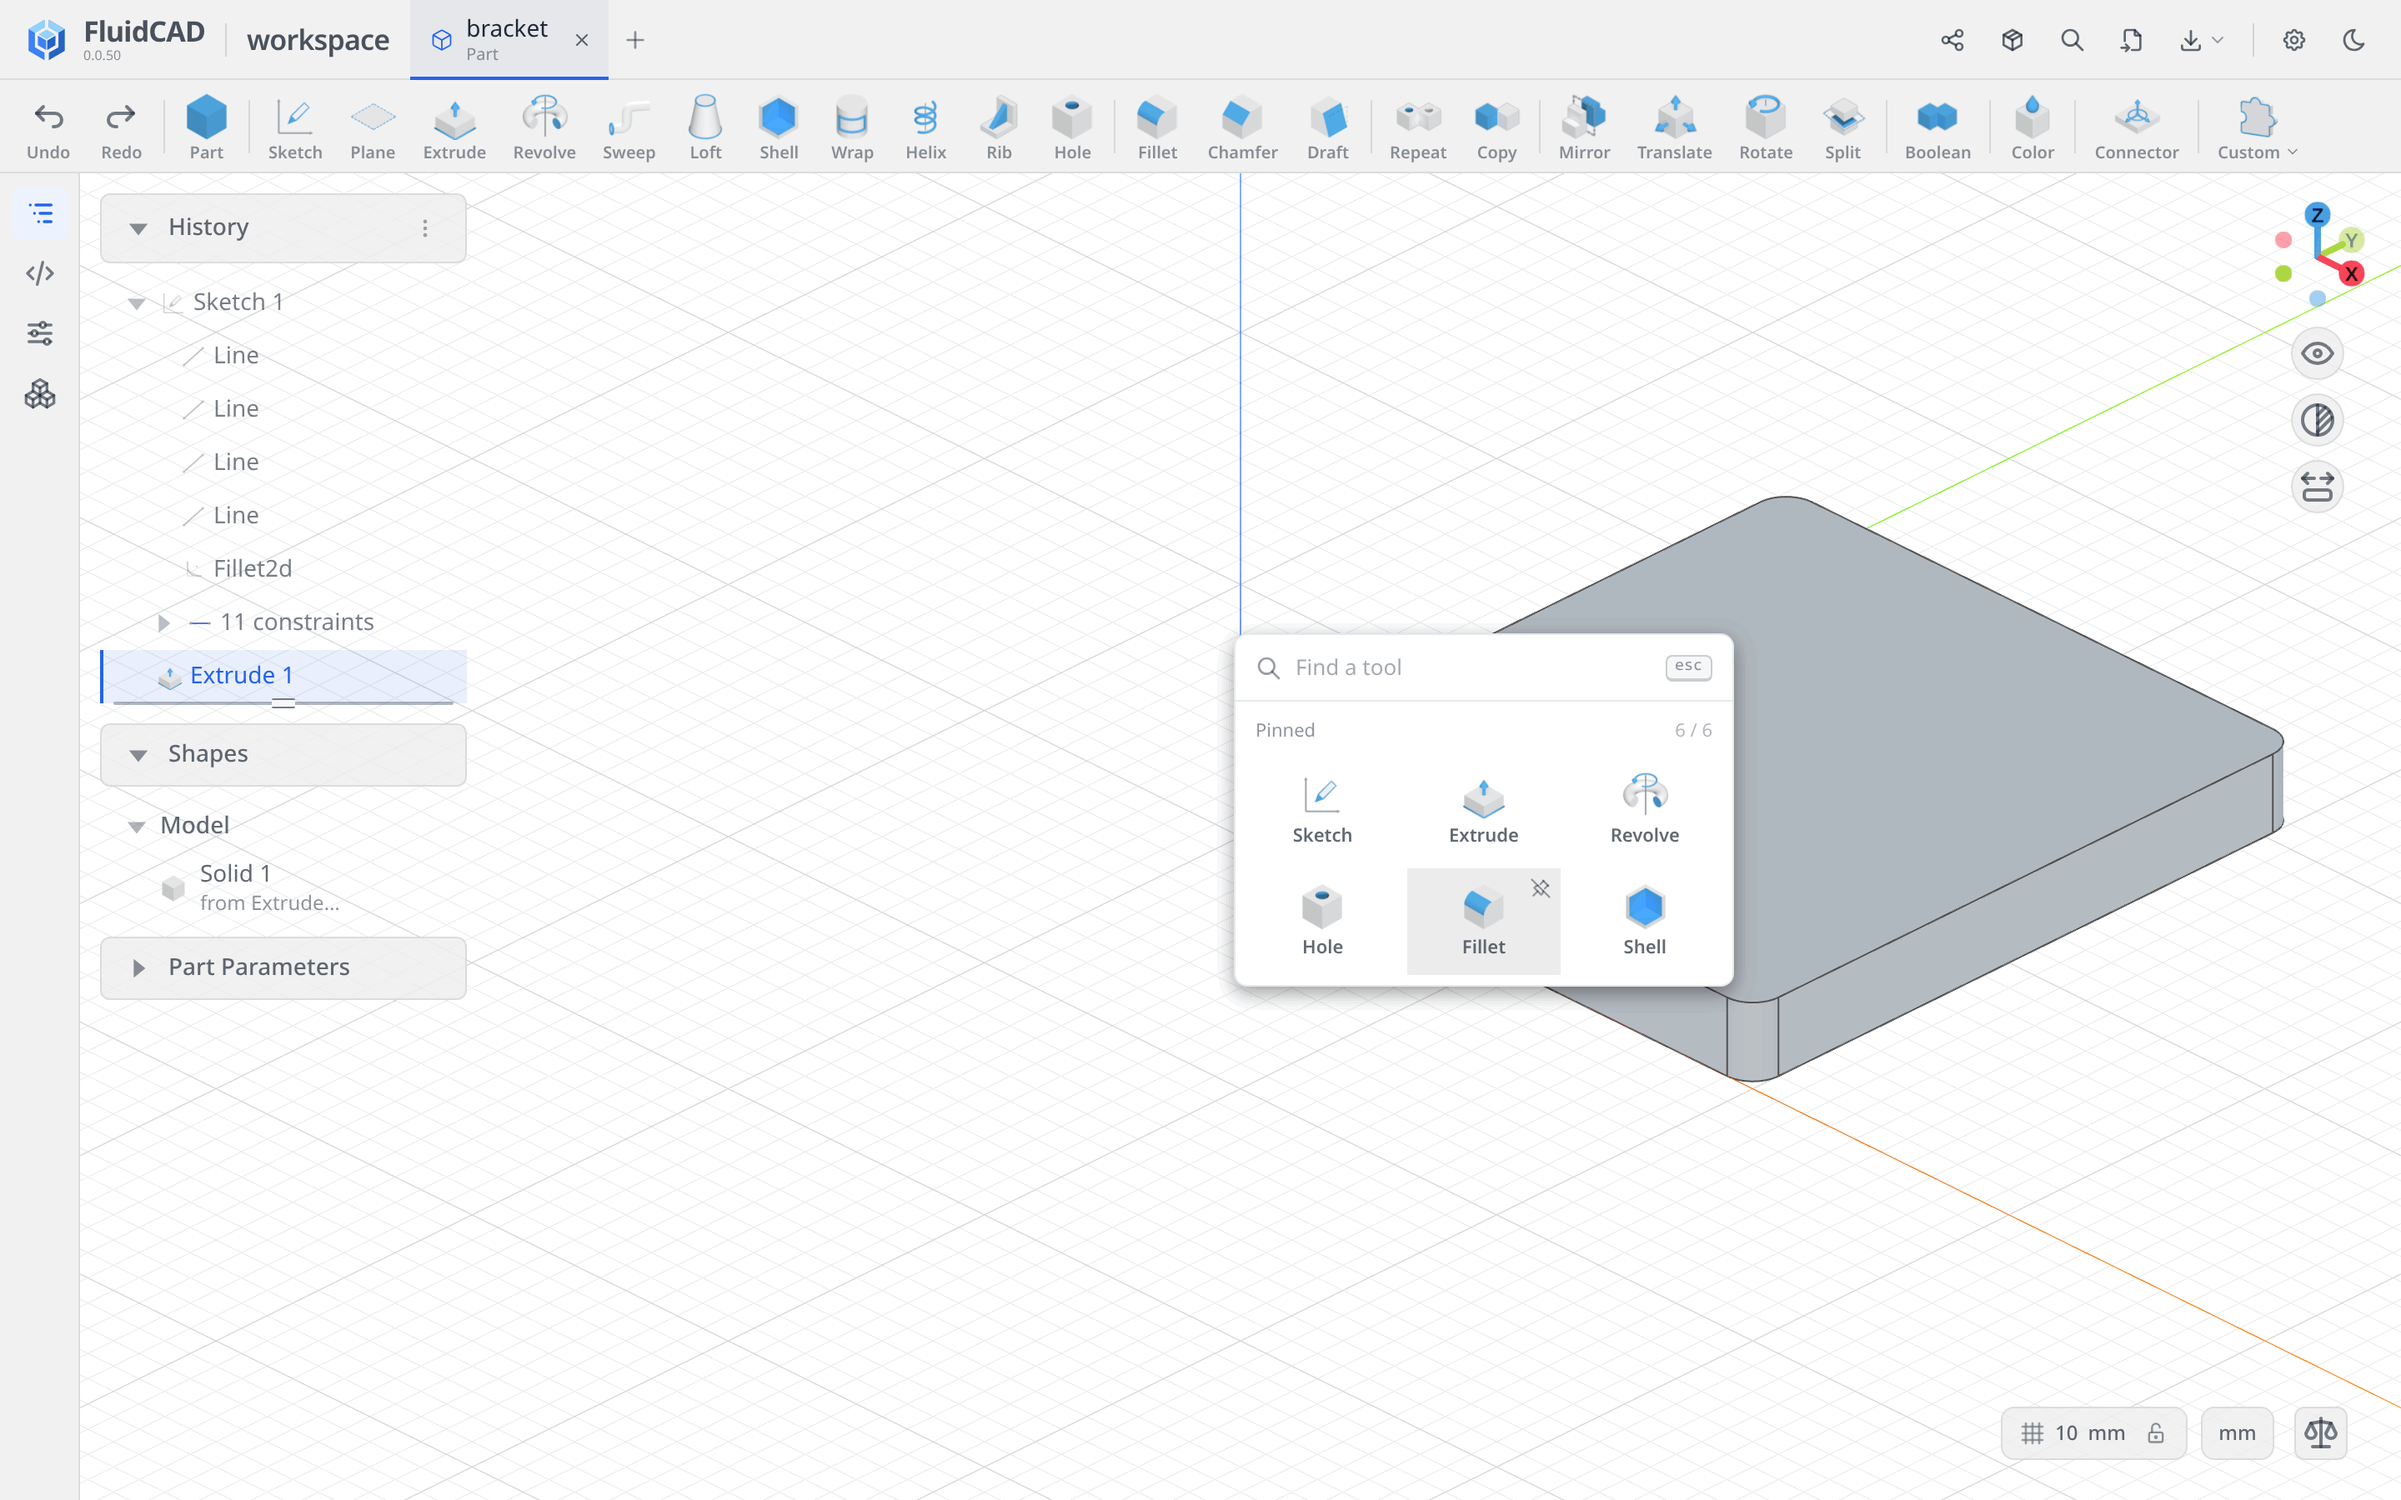
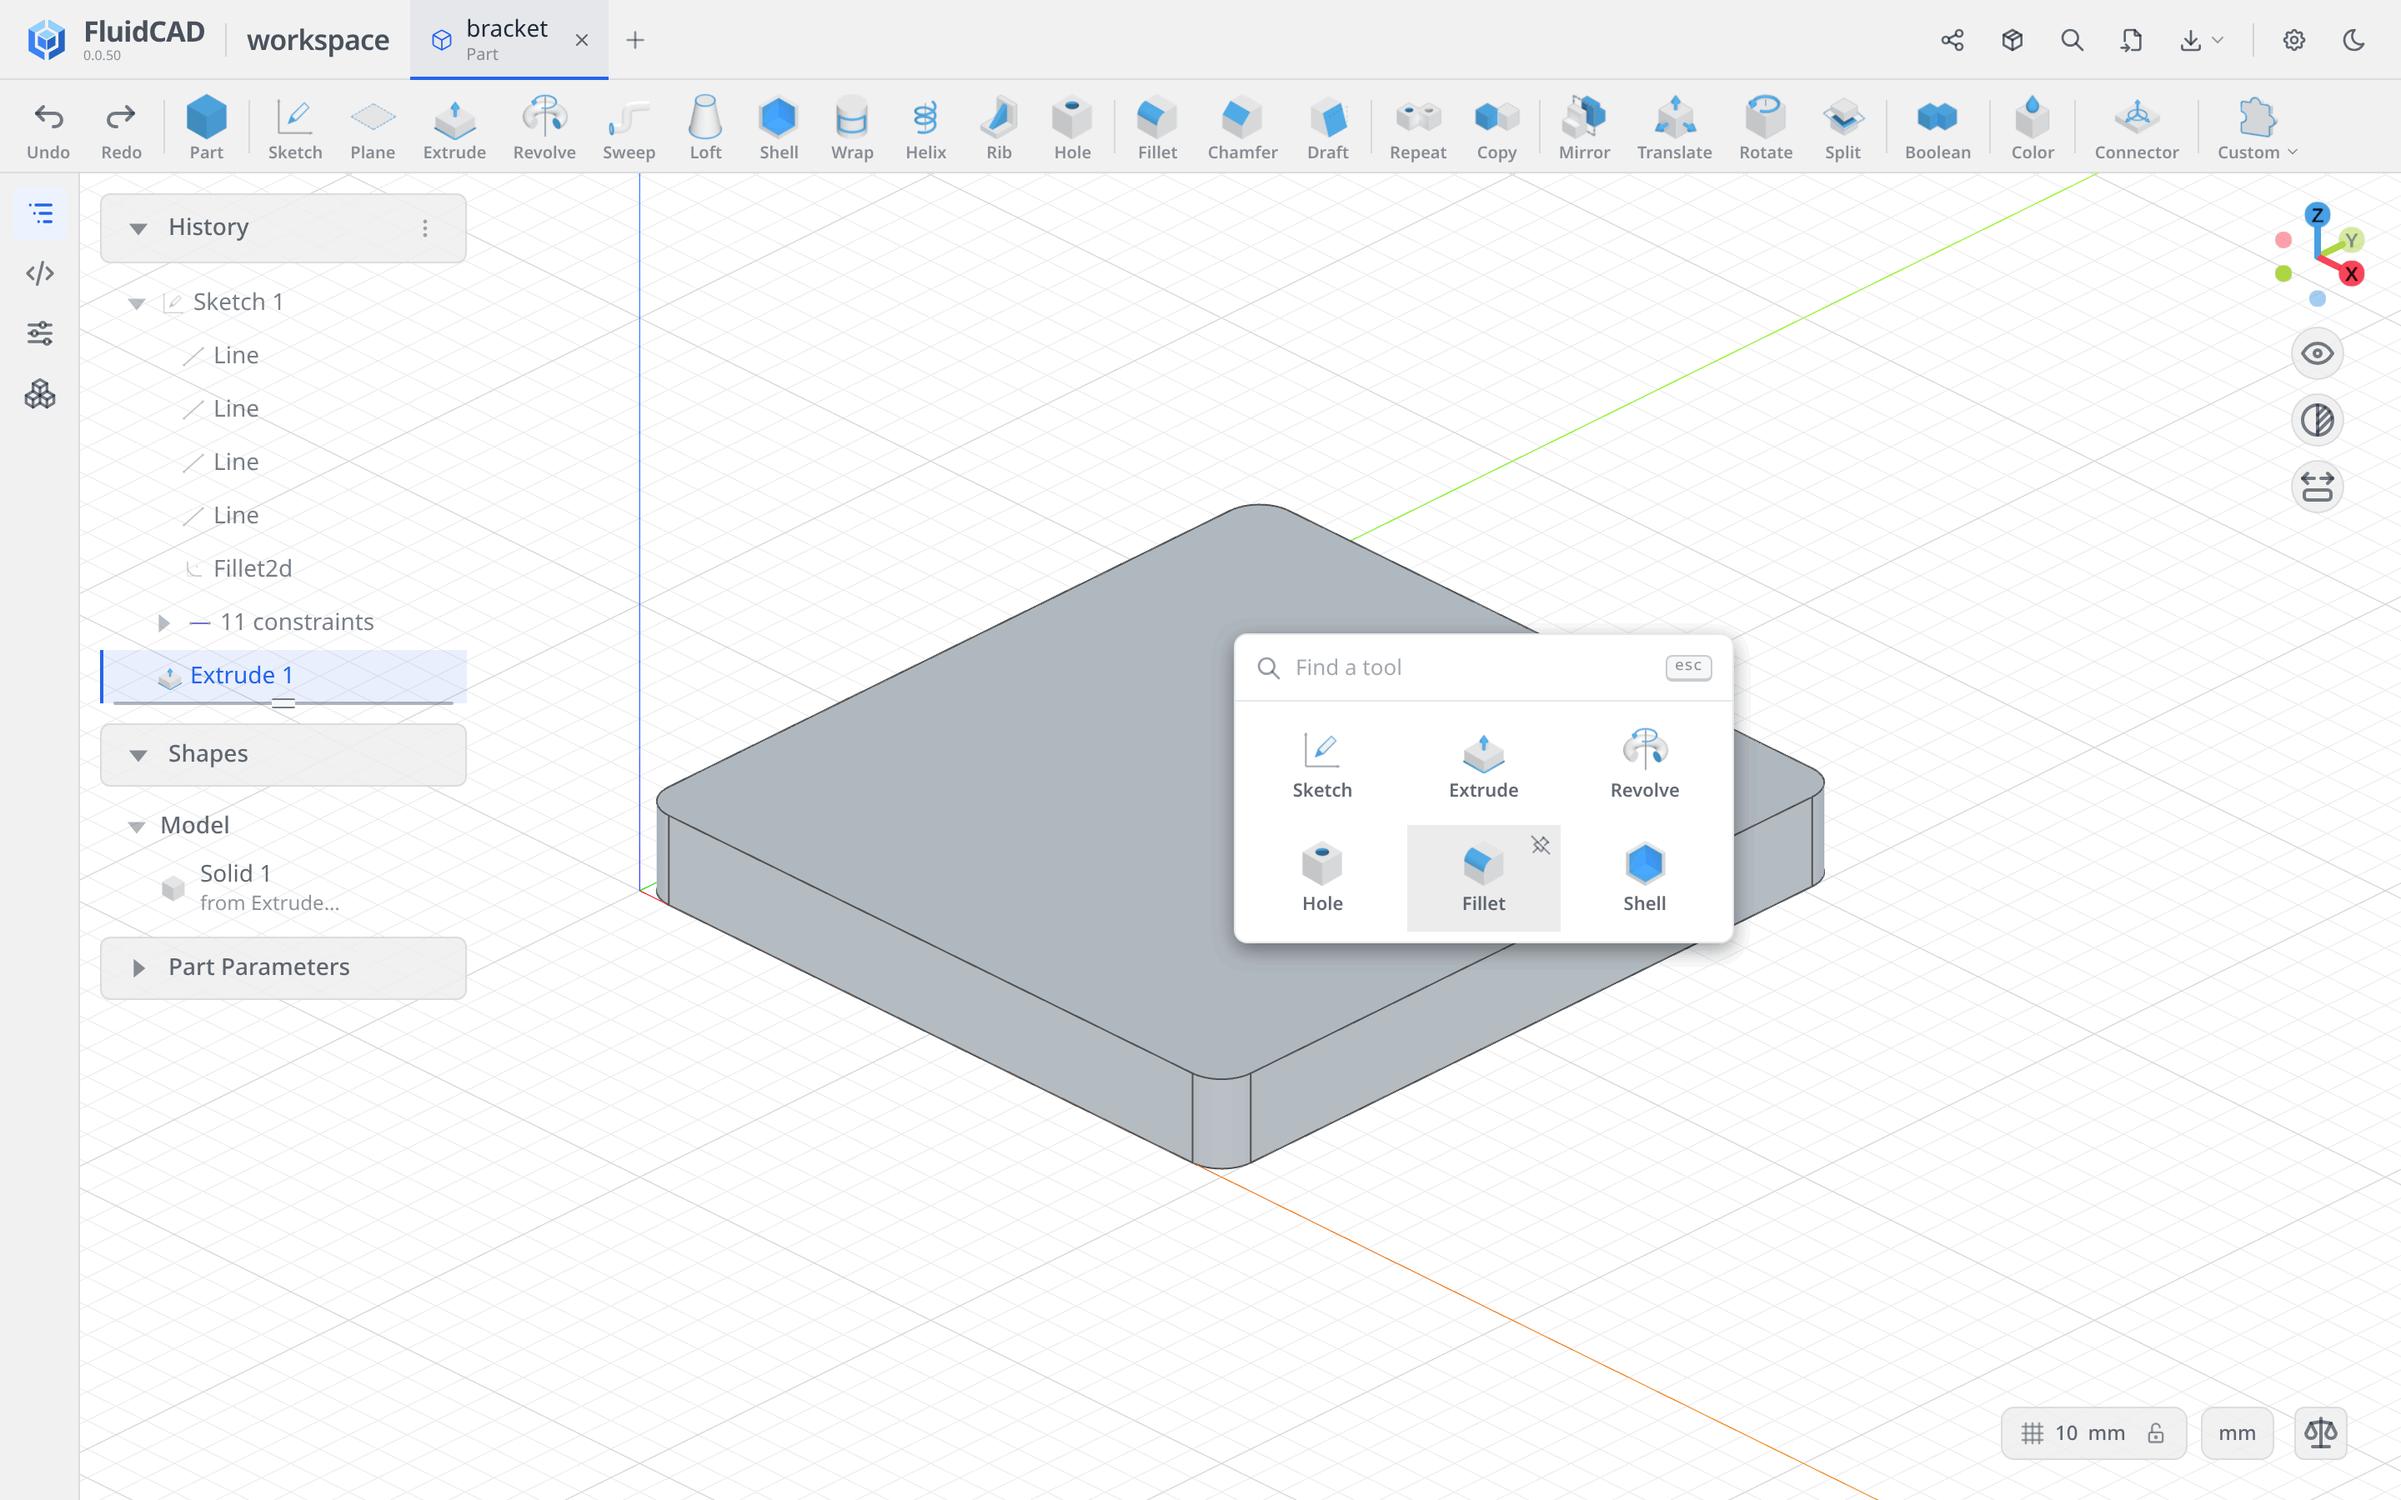
ui(quick-find): the pinned tiles stand alone, without the Pinned heading and its count

Changed region(s): [[0.25, 0.3111, 0.9688, 0.7778]]

diff --git a/ui/src/ui/quick-find/quick-find-popover.ts b/ui/src/ui/quick-find/quick-find-popover.ts
@@ -51,7 +51,6 @@ const ROOT =
 const FIELD_ROW = 'flex items-center gap-2 h-10 px-3 border-b border-base-content/10 shrink-0';
 const FIELD = 'grow min-w-0 bg-transparent outline-none text-[13px] text-base-content placeholder:text-base-content/40';
 const BODY = 'min-h-0 overflow-y-auto p-1.5';
-const SECTION_HEADING = 'flex items-center px-1.5 pt-1 pb-1.5 text-[11px] text-base-content/50';
 /** Three tiles across, the Custom dropdown's grid. */
 const GRID = 'grid grid-cols-3 gap-1';
 // The toolbar's own idle and armed looks, stretched to the tile.
@@ -317,32 +316,24 @@ export class QuickFindPopover {
     }
   }
 
-  /** The pinned tiles, or what to do with none. */
+  /** The pinned tiles alone (no heading: the pins on the tiles say what they are), or what to do with none. */
   private renderPinned(): HTMLElement[] {
     const shown = this.deps.pins.shown();
-    const heading = document.createElement('div');
-    heading.className = SECTION_HEADING;
-    heading.dataset.ref = 'pinned-heading';
-    const title = document.createElement('span');
-    title.textContent = 'Pinned';
-    const count = document.createElement('span');
-    count.className = 'ml-auto tabular-nums text-base-content/35';
-    count.textContent = `${shown.length} / ${QuickFindPins.LIMIT}`;
-    heading.append(title, count);
     if (shown.length === 0) {
       const notice = document.createElement('p');
       notice.className = NOTICE;
       notice.dataset.ref = 'no-pins';
       notice.textContent = 'Nothing pinned here. Type a tool’s name, then pin it to keep it in this list.';
       this.status.textContent = 'No pinned tools';
-      return [heading, notice];
+      return [notice];
     }
     const grid = document.createElement('div');
     grid.className = GRID;
     grid.dataset.ref = 'pinned';
+    grid.setAttribute('aria-label', 'Pinned tools');
     grid.append(...shown.map(tool => this.tile(tool)));
     this.status.textContent = `${shown.length} pinned ${shown.length === 1 ? 'tool' : 'tools'}`;
-    return [heading, grid];
+    return [grid];
   }
 
   /** A pinned tool as a tile: its icon over its name, the unpin at its corner. */

diff --git a/ui/tests/quick-find.test.ts b/ui/tests/quick-find.test.ts
@@ -184,7 +184,8 @@ describe('QuickFindPopover', () => {
     expect(el()!.style.top).toBe('280px');
     expect(document.activeElement).toBe(input());
     expect(tiles()).toEqual(['part:sketch', 'part:extrude', 'part:revolve', 'part:hole', 'part:fillet', 'part:shell']);
-    expect(el()!.querySelector('[data-ref="pinned-heading"]')!.textContent).toBe('Pinned6 / 6');
+    // The tiles alone: no heading or count above them.
+    expect(el()!.querySelector('[data-ref="body"]')!.firstElementChild!.dataset.ref).toBe('pinned');
 
     el()!.querySelector<HTMLElement>('[data-tool="part:hole"] [role="option"]')!.click();
     expect(tools.hole.runs).toHaveBeenCalledTimes(1);
